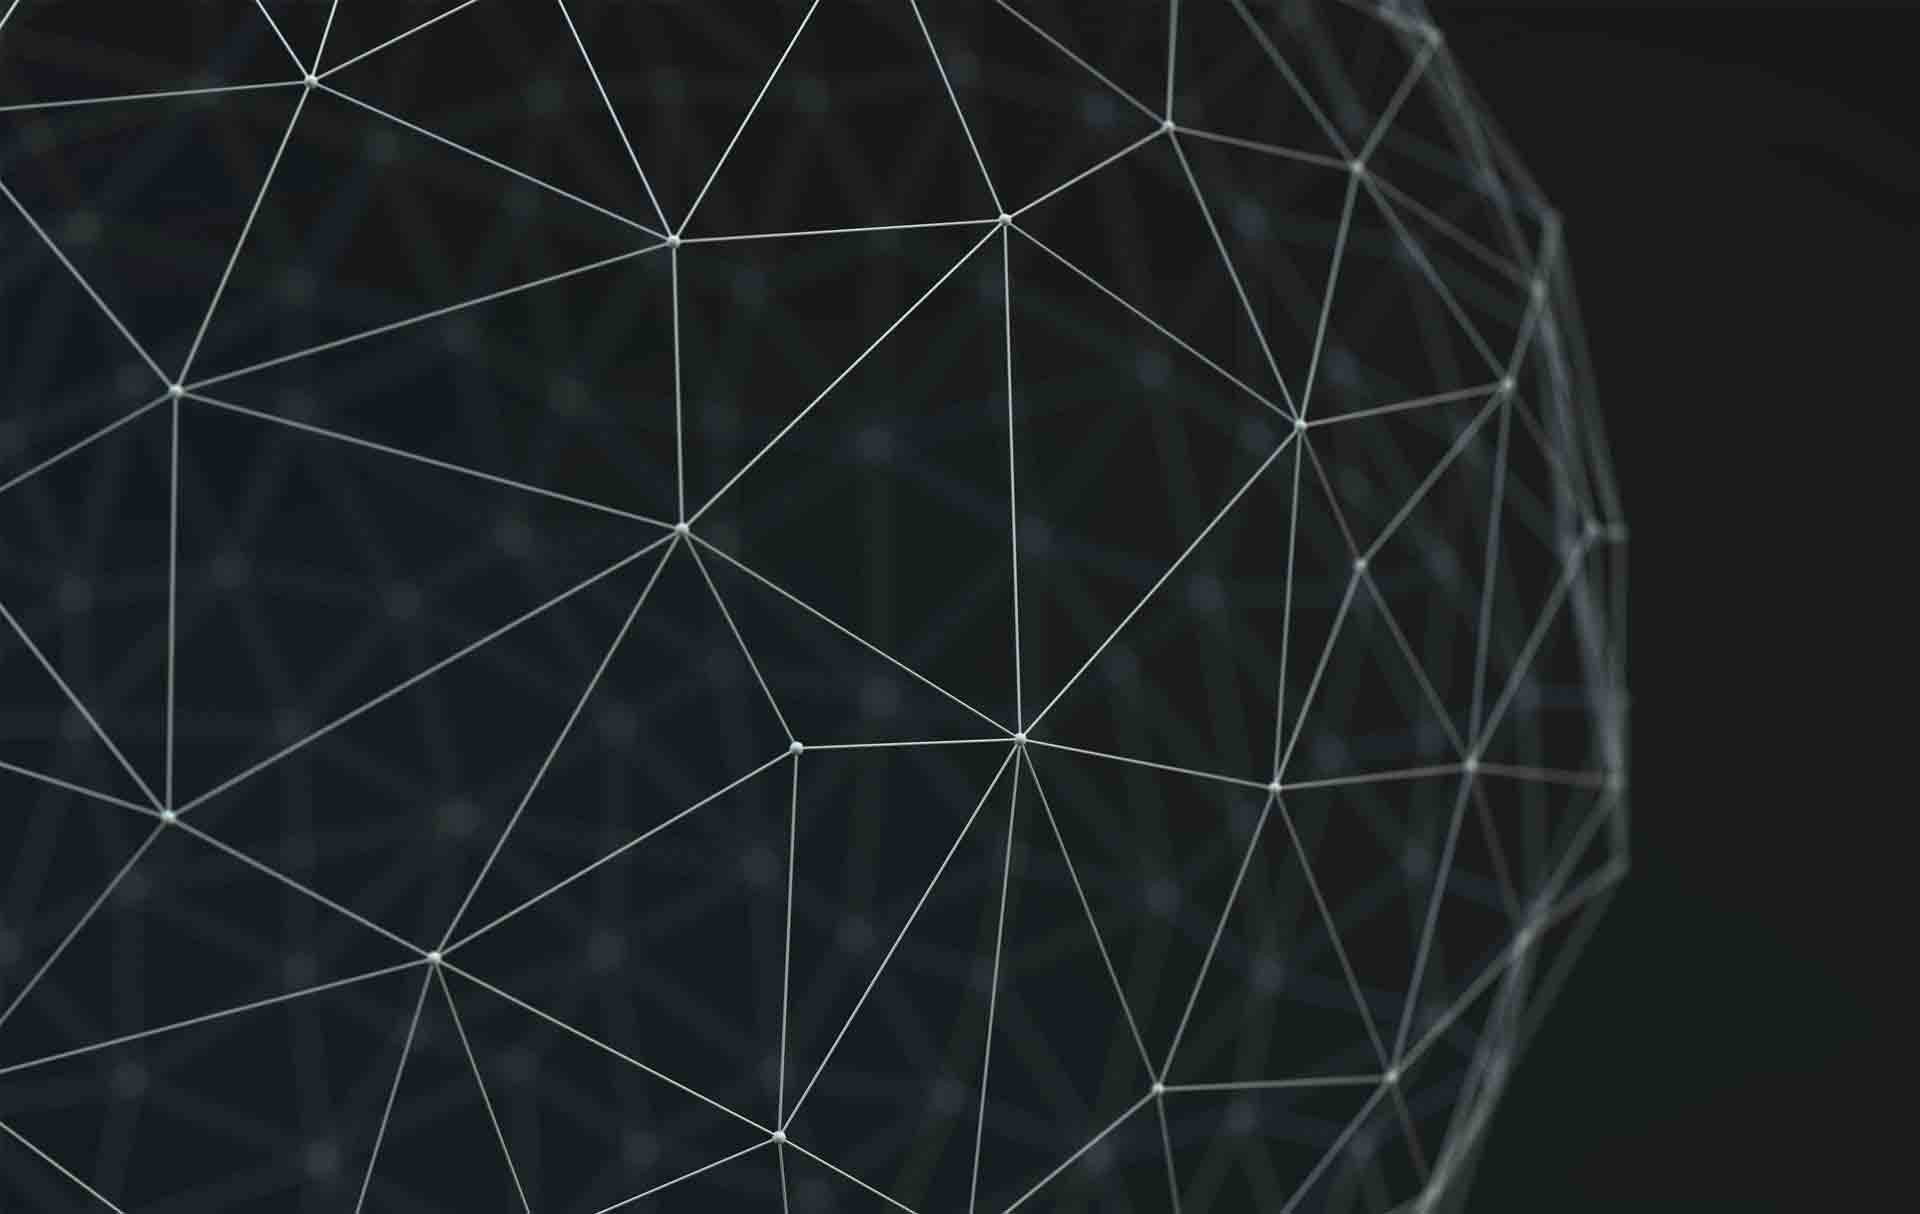
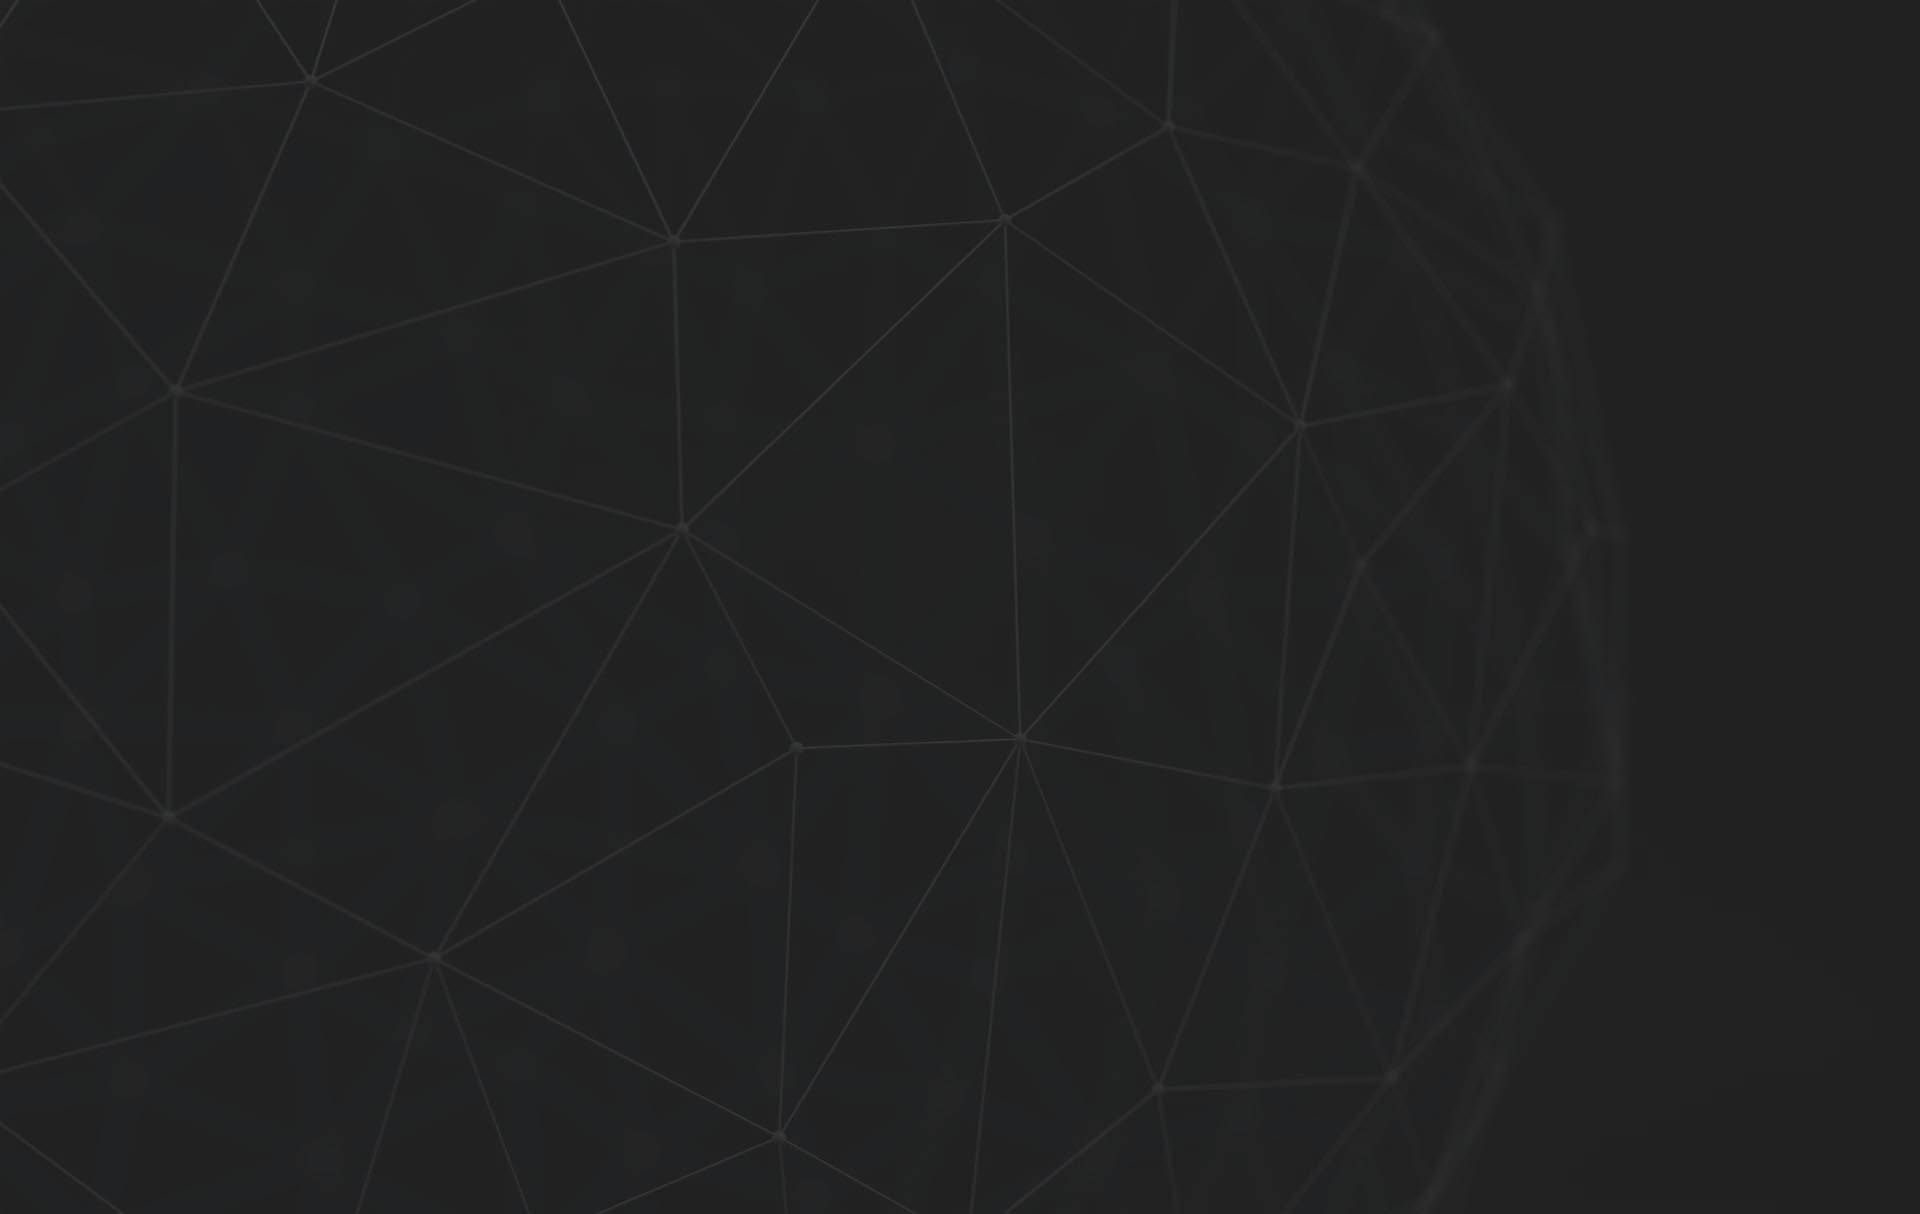
Фиксы + MOCK сервер

diff --git a/src/Pages/Home/Styles/FooterStyle.sass b/src/Pages/Home/Styles/FooterStyle.sass
@@ -46,19 +46,19 @@
     height: 50vh
     font-family: 'ComfortaaL', 'sans-serif'
     font-size: 1.4em
-    background: rgba(34, 34, 34, 0.9)
+    background: url('../../../Assets/img/backgroundFooter.jpg') no-repeat
+    background-size: cover
     color: $accent-color
     text-align: center
-    &::before
-      content: ''
-      position: absolute
-      top: 0
-      left: 0
-      z-index: -2
-      width: 100%
-      height: 100%
-      background: url('../../../Assets/img/backgroundFooter.jpg') no-repeat
-      background-size: cover
+    //&::after
+    //  content: ''
+    //  position: absolute
+    //  top: 0
+    //  left: 0
+    //  z-index: 1
+    //  background: rgba(34, 34, 34, 0.9)
+    //  width: 100%
+    //  height: 100%
     &-icon
       margin-top: 2vh
       margin-left: 1vw

diff --git a/src/Assets/sass/StylingComponents/BurgerMenuStyle.sass b/src/Assets/sass/StylingComponents/BurgerMenuStyle.sass
@@ -17,12 +17,19 @@
   padding: 0 2vw 0
   background: $main-lighten-color
 
-.bm-item-list a
-  padding-top: .4vh
-  text-decoration: none
-  color: $accent-color
-  font-size: 2.2vw
-  font-family: 'ComfortaaL', 'sans-serif'
+.bm-item-list
+  div
+    border-bottom: 1px solid rgba(255, 255, 255, 0.2)
+    padding-bottom: 1vh
+    padding-top: 2vh
+  &:first-child
+    border-bottom: 0
+  a
+    padding-top: .4vh
+    text-decoration: none
+    color: $accent-color
+    font-size: 2.2vw
+    font-family: 'ComfortaaL', 'sans-serif'
 
 .bm-overlay
   background: rgba(0, 0, 0, 0.3)

diff --git a/mockServer/index.js b/mockServer/index.js
@@ -1,0 +1,12 @@
+var mockServer = require('node-mock-server');
+var path = require('path');
+
+mockServer({
+  dirName: __dirname,
+  title: 'MOCK SERVER',
+  urlBase: 'http://localhost:3000',
+  port: 3000,
+  headers: {
+    'Global-Custom-Header': 'Global-Custom-Header'
+  }
+});

diff --git a/src/Pages/Home/Containers/HeaderContainer.js b/src/Pages/Home/Containers/HeaderContainer.js
@@ -17,7 +17,7 @@ class HeaderParallaxContainer extends Component {
   }
 
   onMouseMoveParallaxEffect(e) {
-    let x = (e.pageX * -1 / 20), y = (e.pageY * -1 / 10);
+    let x = (e.pageX * -1 / 30), y = (e.pageY * -1 / 20);
 
     this.setState({
       backgroundPositionX: x,

diff --git a/src/Components/BurgerMenu/index.js b/src/Components/BurgerMenu/index.js
@@ -15,9 +15,7 @@ class BurgerMenu extends Component {
     this.state = {
       width: '40%'
     };
-  }
 
-  componentWillMount() {
     if (document.body.clientWidth < 768)
       this.setState({ width: '60%' })
   }
